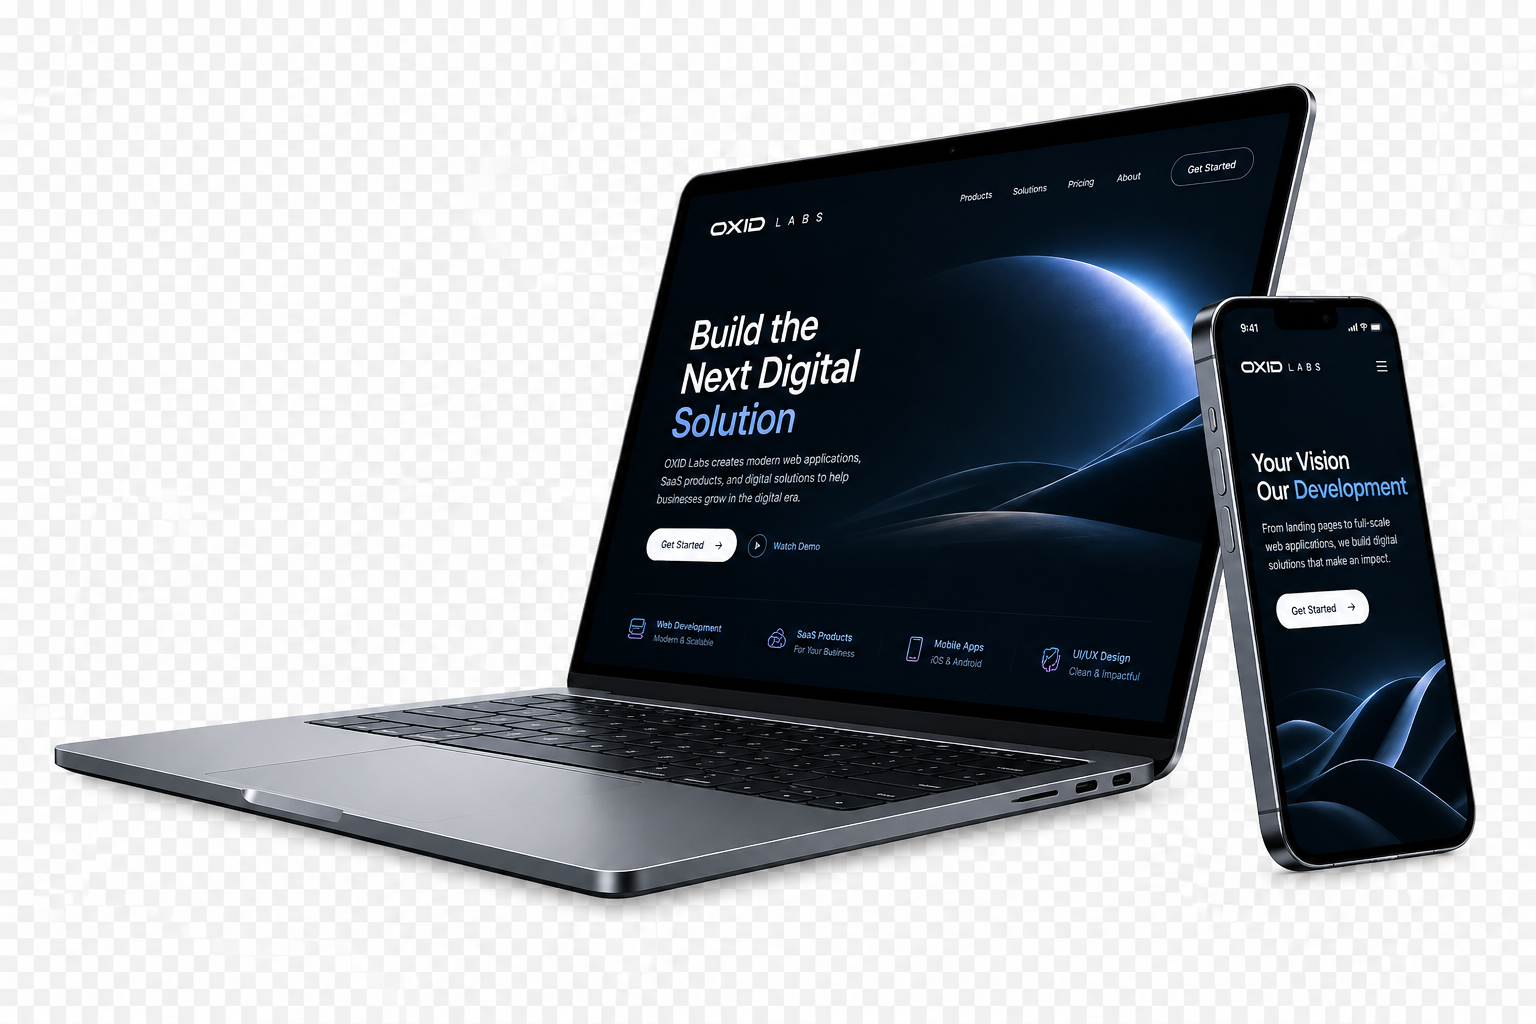
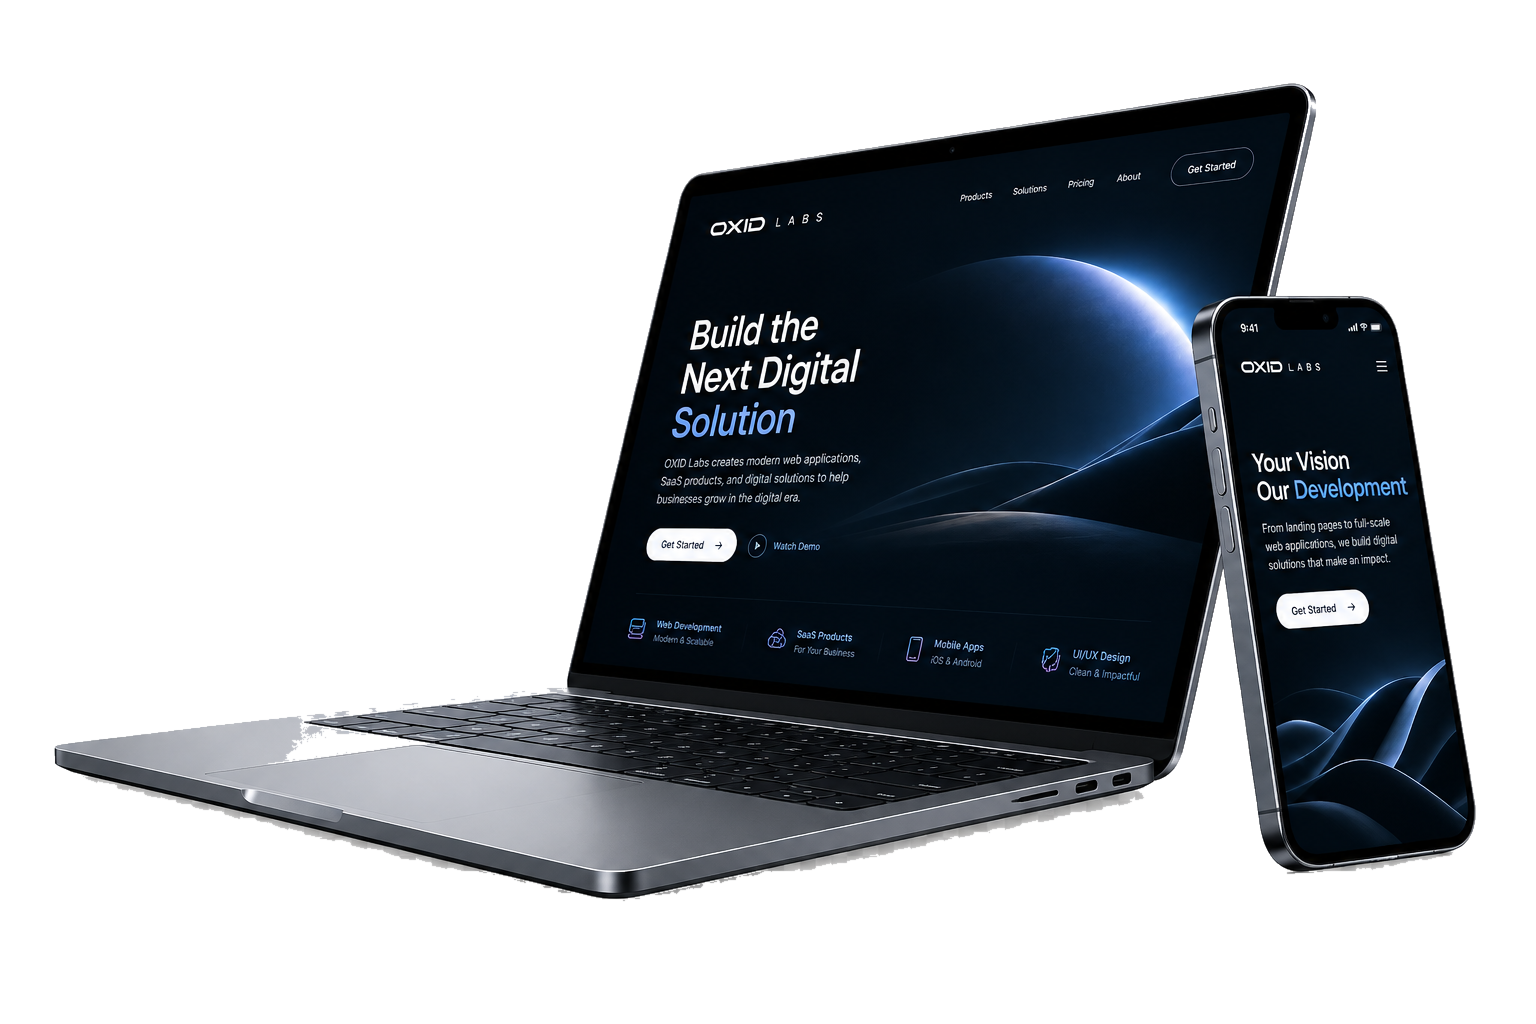
feat(hero): make device mockup transparent and keep section 1 background matte black

diff --git a/resources/views/frontend/index.blade.php b/resources/views/frontend/index.blade.php
@@ -7,7 +7,10 @@
     <!-- ========================================================================= -->
     <!-- HERO SECTION: CLEAN MINIMALIST HERO WITH REAL DEVICE MOCKUP SHOWCASE       -->
     <!-- ========================================================================= -->
-    <section class="relative w-full min-h-[85vh] flex flex-col justify-center overflow-hidden bg-night-base pt-10 pb-16 sm:pb-20">
+    <!-- ========================================================================= -->
+    <!-- HERO SECTION: CLEAN MINIMALIST HERO WITH REAL DEVICE MOCKUP SHOWCASE       -->
+    <!-- ========================================================================= -->
+    <section class="relative w-full min-h-[85vh] flex flex-col justify-center overflow-hidden bg-[#0E0E10] text-white pt-10 pb-16 sm:pb-20">
         
         <div class="relative z-10 max-w-7xl mx-auto px-6 sm:px-8 w-full">
             <div class="grid grid-cols-1 lg:grid-cols-12 gap-12 lg:gap-8 items-center">
@@ -15,44 +18,44 @@
                 <!-- Hero Left: High-Impact Typography & Conversion Actions -->
                 <div class="lg:col-span-7 space-y-6 pt-2 lg:pt-0 text-left">
                     <!-- Category Eyebrow Badge -->
-                    <div class="inline-flex items-center gap-2 px-3.5 py-1.5 rounded-full bg-slate-100 dark:bg-white/10 border border-slate-200 dark:border-white/15">
-                        <span class="w-2 h-2 rounded-full bg-emerald-500 animate-pulse"></span>
-                        <span class="text-[11px] font-mono tracking-widest uppercase text-slate-700 dark:text-slate-300 font-semibold">
+                    <div class="inline-flex items-center gap-2 px-3.5 py-1.5 rounded-full bg-white/10 border border-white/15">
+                        <span class="w-2 h-2 rounded-full bg-emerald-400 animate-pulse"></span>
+                        <span class="text-[11px] font-mono tracking-widest uppercase text-zinc-300 font-semibold">
                             WEB DEVELOPMENT SERVICES
                         </span>
                     </div>
 
                     <!-- Main Headline (Direct match with reference) -->
-                    <h1 class="text-3xl sm:text-4xl md:text-5xl lg:text-6xl font-extrabold text-night-text tracking-tight leading-[1.12]">
-                        Landing Page <span class="text-slate-900 dark:text-white">Profesional</span> untuk <span class="text-slate-700 dark:text-slate-300">Bisnis &amp; Produk Anda</span>
+                    <h1 class="text-3xl sm:text-4xl md:text-5xl lg:text-6xl font-extrabold text-white tracking-tight leading-[1.12]">
+                        Landing Page <span class="text-white">Profesional</span> untuk <span class="text-zinc-400">Bisnis &amp; Produk Anda</span>
                     </h1>
 
                     <!-- Subtitle / Value Proposition -->
-                    <p class="text-base sm:text-lg text-night-muted max-w-xl leading-relaxed font-normal">
+                    <p class="text-base sm:text-lg text-zinc-400 max-w-xl leading-relaxed font-normal">
                         Dari landing page hingga website lengkap, kami bantu wujudkan kehadiran digital yang modern, cepat, dan berorientasi pada hasil.
                     </p>
 
                     <!-- Primary Conversion Action Buttons -->
                     <div class="flex flex-col sm:flex-row items-stretch sm:items-center gap-4 pt-2">
-                        <a href="#pricing" class="px-8 py-4 text-xs sm:text-sm font-semibold btn-pill-primary shadow-md">
+                        <a href="#pricing" class="px-8 py-4 text-xs sm:text-sm font-semibold btn-pill-white shadow-lg">
                             <span>Mulai Sekarang</span>
                             <svg class="w-4 h-4 ml-2" fill="none" stroke="currentColor" viewBox="0 0 24 24"><path stroke-linecap="round" stroke-linejoin="round" stroke-width="2" d="M14 5l7 7m0 0l-7 7m7-7H3"/></svg>
                         </a>
                         
-                        <a href="https://wa.me/6281234567890?text=Halo%20OXID%20Labs,%20saya%20ingin%20konsultasi%20pembuatan%20website" target="_blank" rel="noopener noreferrer" class="px-7 py-4 text-xs sm:text-sm font-semibold btn-pill-secondary flex items-center justify-center gap-2.5">
-                            <svg class="w-4 h-4 text-slate-600 dark:text-slate-300" fill="none" stroke="currentColor" viewBox="0 0 24 24"><path stroke-linecap="round" stroke-linejoin="round" stroke-width="2" d="M8 12h.01M12 12h.01M16 12h.01M21 12c0 4.418-4.03 8-9 8a9.863 9.863 0 01-4.255-.949L3 20l1.395-3.72C3.512 15.042 3 13.574 3 12c0-4.418 4.03-8 9-8s9 3.582 9 8z"/></svg>
+                        <a href="https://wa.me/6281234567890?text=Halo%20OXID%20Labs,%20saya%20ingin%20konsultasi%20pembuatan%20website" target="_blank" rel="noopener noreferrer" class="px-7 py-4 text-xs sm:text-sm font-semibold rounded-full border border-white/20 bg-white/5 hover:bg-white/10 text-white transition-all flex items-center justify-center gap-2.5">
+                            <svg class="w-4 h-4 text-zinc-300" fill="none" stroke="currentColor" viewBox="0 0 24 24"><path stroke-linecap="round" stroke-linejoin="round" stroke-width="2" d="M8 12h.01M12 12h.01M16 12h.01M21 12c0 4.418-4.03 8-9 8a9.863 9.863 0 01-4.255-.949L3 20l1.395-3.72C3.512 15.042 3 13.574 3 12c0-4.418 4.03-8 9-8s9 3.582 9 8z"/></svg>
                             <span>Konsultasi Gratis via Chat / Email</span>
                         </a>
                     </div>
 
                     <!-- Client Trust & Delivery Assurance Note -->
-                    <div class="pt-2 flex items-center gap-6 text-xs text-night-dim font-mono">
+                    <div class="pt-2 flex items-center gap-6 text-xs text-zinc-400 font-mono">
                         <div class="flex items-center gap-1.5">
-                            <svg class="w-4 h-4 text-emerald-500" fill="none" stroke="currentColor" viewBox="0 0 24 24"><path stroke-linecap="round" stroke-linejoin="round" stroke-width="2" d="M5 13l4 4L19 7"/></svg>
+                            <svg class="w-4 h-4 text-emerald-400" fill="none" stroke="currentColor" viewBox="0 0 24 24"><path stroke-linecap="round" stroke-linejoin="round" stroke-width="2" d="M5 13l4 4L19 7"/></svg>
                             <span>Estimasi 1 &ndash; 7 Hari</span>
                         </div>
                         <div class="flex items-center gap-1.5">
-                            <svg class="w-4 h-4 text-emerald-500" fill="none" stroke="currentColor" viewBox="0 0 24 24"><path stroke-linecap="round" stroke-linejoin="round" stroke-width="2" d="M5 13l4 4L19 7"/></svg>
+                            <svg class="w-4 h-4 text-emerald-400" fill="none" stroke="currentColor" viewBox="0 0 24 24"><path stroke-linecap="round" stroke-linejoin="round" stroke-width="2" d="M5 13l4 4L19 7"/></svg>
                             <span>Garansi Support Teknis</span>
                         </div>
                     </div>
@@ -71,84 +74,80 @@
 
                     <!-- Floating Badges Layer (Below mockup - exact match with reference) -->
                     <div class="grid grid-cols-3 gap-3 w-full mt-6">
-                        <div class="p-3 sm:p-3.5 rounded-2xl bg-night-surface border border-night-border text-center shadow-sm hover:border-night-border-active transition-all">
-                            <div class="text-emerald-500 mb-1 flex justify-center">
+                        <div class="p-3 sm:p-3.5 rounded-2xl bg-[#151518] border border-white/10 text-center shadow-sm hover:border-white/20 transition-all">
+                            <div class="text-emerald-400 mb-1 flex justify-center">
                                 <svg class="w-4 h-4" fill="none" stroke="currentColor" viewBox="0 0 24 24"><path stroke-linecap="round" stroke-linejoin="round" stroke-width="2" d="M13 7h8m0 0v8m0-8l-8 8-4-4-6 6"/></svg>
                             </div>
-                            <div class="text-[11px] font-bold text-night-text leading-tight">Fast Loading</div>
-                            <div class="text-[10px] text-night-dim font-mono">&lt; 1.5s</div>
+                            <div class="text-[11px] font-bold text-white leading-tight">Fast Loading</div>
+                            <div class="text-[10px] text-zinc-400 font-mono">&lt; 1.5s</div>
                         </div>
 
-                        <div class="p-3 sm:p-3.5 rounded-2xl bg-night-surface border border-night-border text-center shadow-sm hover:border-night-border-active transition-all">
-                            <div class="text-slate-800 dark:text-zinc-200 mb-1 flex justify-center">
+                        <div class="p-3 sm:p-3.5 rounded-2xl bg-[#151518] border border-white/10 text-center shadow-sm hover:border-white/20 transition-all">
+                            <div class="text-zinc-200 mb-1 flex justify-center">
                                 <svg class="w-4 h-4" fill="none" stroke="currentColor" viewBox="0 0 24 24"><path stroke-linecap="round" stroke-linejoin="round" stroke-width="2" d="M9 12l2 2 4-4m5.618-4.016A11.955 11.955 0 0112 2.944a11.955 11.955 0 01-8.618 3.04A12.02 12.02 0 003 9c0 5.591 3.824 10.29 9 11.622 5.176-1.332 9-6.03 9-11.622 0-1.042-.133-2.052-.382-3.016z"/></svg>
                             </div>
-                            <div class="text-[11px] font-bold text-night-text leading-tight">Modern Design</div>
-                            <div class="text-[10px] text-night-dim font-mono">Responsive</div>
+                            <div class="text-[11px] font-bold text-white leading-tight">Modern Design</div>
+                            <div class="text-[10px] text-zinc-400 font-mono">Responsive</div>
                         </div>
 
-                        <div class="p-3 sm:p-3.5 rounded-2xl bg-night-surface border border-night-border text-center shadow-sm hover:border-night-border-active transition-all">
-                            <div class="text-slate-800 dark:text-zinc-200 mb-1 flex justify-center">
+                        <div class="p-3 sm:p-3.5 rounded-2xl bg-[#151518] border border-white/10 text-center shadow-sm hover:border-white/20 transition-all">
+                            <div class="text-zinc-200 mb-1 flex justify-center">
                                 <svg class="w-4 h-4" fill="none" stroke="currentColor" viewBox="0 0 24 24"><path stroke-linecap="round" stroke-linejoin="round" stroke-width="2" d="M10 20l4-16m4 4l4 4-4 4M6 16l-4-4 4-4"/></svg>
                             </div>
-                            <div class="text-[11px] font-bold text-night-text leading-tight">Clean Code</div>
-                            <div class="text-[10px] text-night-dim font-mono">Easy to Scale</div>
+                            <div class="text-[11px] font-bold text-white leading-tight">Clean Code</div>
+                            <div class="text-[10px] text-zinc-400 font-mono">Easy to Scale</div>
                         </div>
                     </div>
 
                 </div>
-
-            </div>
-        </div>
 
             </div>
         </div>
 
         <!-- Horizontal Key Benefits Ribbon -->
         <div class="relative z-10 max-w-7xl mx-auto px-6 sm:px-8 mt-16 w-full">
-            <div class="grid grid-cols-2 lg:grid-cols-4 gap-4 p-4 rounded-2xl bg-night-surface border border-night-border shadow-sm">
+            <div class="grid grid-cols-2 lg:grid-cols-4 gap-4 p-4 rounded-2xl bg-[#151518] border border-white/10 shadow-sm">
                 <div class="flex items-center gap-3 p-2">
-                    <div class="w-9 h-9 rounded-xl bg-slate-100 dark:bg-white/10 flex items-center justify-center text-slate-800 dark:text-white flex-shrink-0">
+                    <div class="w-9 h-9 rounded-xl bg-white/10 flex items-center justify-center text-white flex-shrink-0">
                         <svg class="w-4 h-4" fill="none" stroke="currentColor" viewBox="0 0 24 24"><path stroke-linecap="round" stroke-linejoin="round" stroke-width="2" d="M13 10V3L4 14h7v7l9-11h-7z"/></svg>
                     </div>
                     <div>
-                        <div class="text-xs font-bold text-night-text">Proses Cepat</div>
-                        <div class="text-[11px] text-night-dim">1 – 7 hari kerja</div>
+                        <div class="text-xs font-bold text-white">Proses Cepat</div>
+                        <div class="text-[11px] text-zinc-400">1 – 7 hari kerja</div>
                     </div>
                 </div>
 
                 <div class="flex items-center gap-3 p-2">
-                    <div class="w-9 h-9 rounded-xl bg-slate-100 dark:bg-white/10 flex items-center justify-center text-slate-800 dark:text-white flex-shrink-0">
+                    <div class="w-9 h-9 rounded-xl bg-white/10 flex items-center justify-center text-white flex-shrink-0">
                         <svg class="w-4 h-4" fill="none" stroke="currentColor" viewBox="0 0 24 24"><path stroke-linecap="round" stroke-linejoin="round" stroke-width="2" d="M12 18h.01M8 21h8a2 2 0 002-2V5a2 2 0 00-2-2H8a2 2 0 00-2 2v14a2 2 0 002 2z"/></svg>
                     </div>
                     <div>
-                        <div class="text-xs font-bold text-night-text">Desain Modern</div>
-                        <div class="text-[11px] text-night-dim">Responsive di semua perangkat</div>
+                        <div class="text-xs font-bold text-white">Desain Modern</div>
+                        <div class="text-[11px] text-zinc-400">Responsive di semua perangkat</div>
                     </div>
                 </div>
 
                 <div class="flex items-center gap-3 p-2">
-                    <div class="w-9 h-9 rounded-xl bg-slate-100 dark:bg-white/10 flex items-center justify-center text-slate-800 dark:text-white flex-shrink-0">
+                    <div class="w-9 h-9 rounded-xl bg-white/10 flex items-center justify-center text-white flex-shrink-0">
                         <svg class="w-4 h-4" fill="none" stroke="currentColor" viewBox="0 0 24 24"><path stroke-linecap="round" stroke-linejoin="round" stroke-width="2" d="M10 20l4-16m4 4l4 4-4 4M6 16l-4-4 4-4"/></svg>
                     </div>
                     <div>
-                        <div class="text-xs font-bold text-night-text">Kode Bersih</div>
-                        <div class="text-[11px] text-night-dim">Mudah dikembangkan</div>
+                        <div class="text-xs font-bold text-white">Kode Bersih</div>
+                        <div class="text-[11px] text-zinc-400">Mudah dikembangkan</div>
                     </div>
                 </div>
 
                 <div class="flex items-center gap-3 p-2">
-                    <div class="w-9 h-9 rounded-xl bg-slate-100 dark:bg-white/10 flex items-center justify-center text-slate-800 dark:text-white flex-shrink-0">
+                    <div class="w-9 h-9 rounded-xl bg-white/10 flex items-center justify-center text-white flex-shrink-0">
                         <svg class="w-4 h-4" fill="none" stroke="currentColor" viewBox="0 0 24 24"><path stroke-linecap="round" stroke-linejoin="round" stroke-width="2" d="M18.364 5.636l-3.536 3.536m0 5.656l3.536 3.536M9.172 9.172L5.636 5.636m3.536 9.192l-3.536 3.536M21 12a9 9 0 11-18 0 9 9 0 0118 0zm-5 0a4 4 0 11-8 0 4 4 0 018 0z"/></svg>
                     </div>
                     <div>
-                        <div class="text-xs font-bold text-night-text">Support Teknis</div>
-                        <div class="text-[11px] text-night-dim">Setelah project selesai</div>
+                        <div class="text-xs font-bold text-white">Support Teknis</div>
+                        <div class="text-[11px] text-zinc-400">Setelah project selesai</div>
                     </div>
                 </div>
             </div>
         </div>
-
     </section>
 
 

diff --git a/resources/views/layouts/app.blade.php b/resources/views/layouts/app.blade.php
@@ -361,13 +361,35 @@
         }
         html[data-theme="dark"] #global-header.header-scrolled,
         html.theme-dark #global-header.header-scrolled {
-            background-color: rgba(11, 15, 23, 0.90) !important;
+            background-color: rgba(14, 14, 16, 0.90) !important;
             border-bottom-color: var(--color-border) !important;
+        }
+
+        /* High-contrast header navigation over black hero on home page */
+        body.is-home #global-header.header-top nav a {
+            color: #94a3b8;
+        }
+        body.is-home #global-header.header-top nav a:hover,
+        body.is-home #global-header.header-top nav a.text-night-text {
+            color: #ffffff !important;
+        }
+        body.is-home #global-header.header-top .text-night-text {
+            color: #ffffff;
+        }
+        body.is-home #global-header.header-top .text-night-dim {
+            color: #94a3b8;
+        }
+        body.is-home #global-header.header-top .btn-pill-primary {
+            background-color: #ffffff;
+            color: #111113;
+        }
+        body.is-home #global-header.header-top .btn-pill-primary:hover {
+            background-color: #f4f4f6;
         }
     </style>
     @stack('styles')
 </head>
-<body class="relative min-h-screen bg-night-base text-night-muted antialiased selection:bg-black selection:text-white dark:selection:bg-white dark:selection:text-black overflow-x-hidden">
+<body class="relative min-h-screen bg-night-base text-night-muted antialiased selection:bg-black selection:text-white dark:selection:bg-white dark:selection:text-black overflow-x-hidden {{ request()->routeIs('home') ? 'is-home' : '' }}">
 
     <!-- Unified Global Header Navigation -->
     <header id="global-header" class="fixed top-0 left-0 right-0 z-50 header-top border-b transition-all duration-300">
